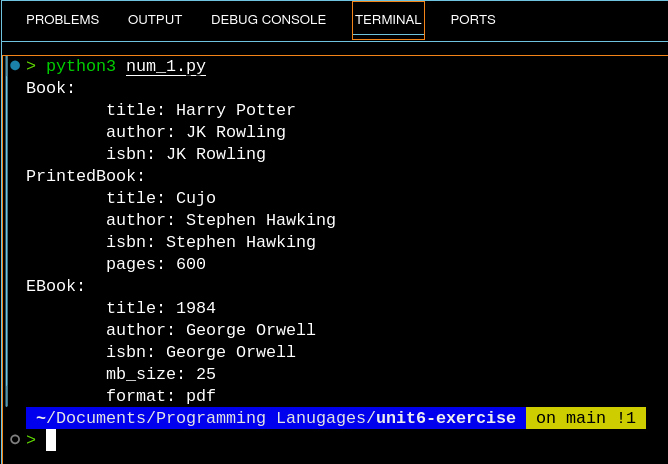
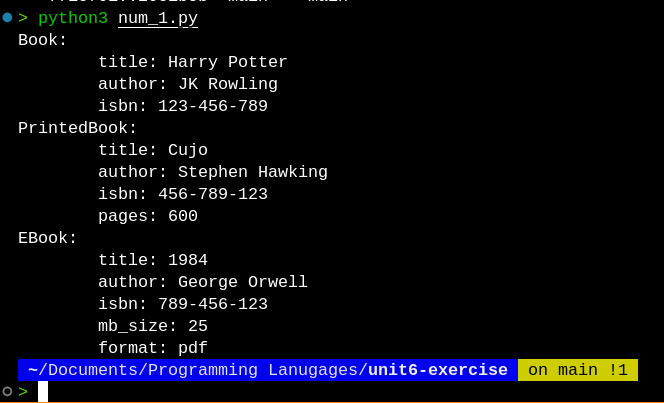
fix: ISBN logic error

Changed region(s): [[0.0, 0.0, 1.0, 1.0], [0.6627, 0.0298, 0.753, 0.0596]]

diff --git a/num_1.py b/num_1.py
@@ -29,7 +29,7 @@ class Book:
 
     @property
     def isbn(self) -> str:
-        return self._author
+        return self._isbn
     @isbn.setter
     def isbn(self, new_isbn:str) -> None:
         self._isbn = new_isbn
